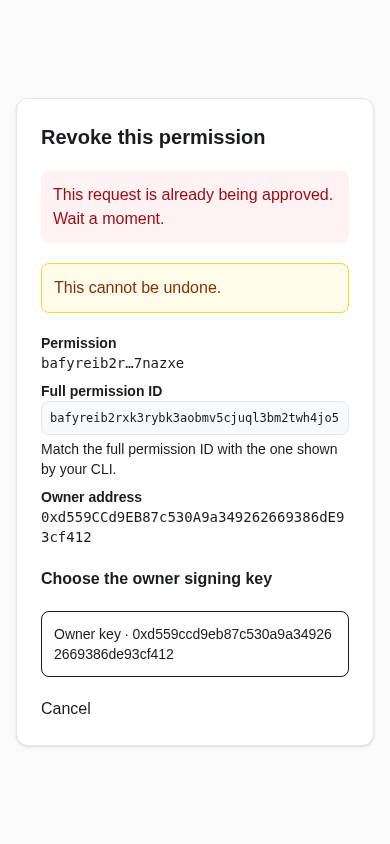
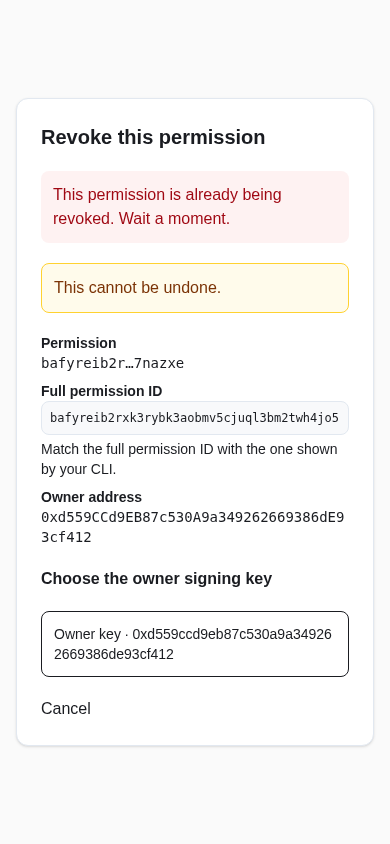
Owner revocation page names its own action on a 409
A 409 on the revoke flow says the permission is already being revoked;
a 410 and both other owner pages keep their wording.

Changed region(s): [[0.1231, 0.2156, 0.8615, 0.2773]]

diff --git a/apps/web/src/lib/api-busy-or-ended.ts b/apps/web/src/lib/api-busy-or-ended.ts
@@ -1,9 +1,10 @@
 // The owner's wording for two server states. A 409 means the request already
-// has an approval in flight, whatever `code` or `error` the reply carries; a
-// 410 on a sign path means it was already answered or ended. Every other
-// status keeps the server's own message: null, and the caller falls back.
-export function apiBusyOrEndedMessage(status: number): string | null {
-  if (status === 409) return 'This request is already being approved. Wait a moment.';
+// has work in flight, whatever `code` or `error` the reply carries; a 410 on a
+// sign path means it was already answered or ended. The owner revocation page
+// names its own action. Every other status keeps the server's own message:
+// null, and the caller falls back.
+export function apiBusyOrEndedMessage(status: number, surface?: 'revoke'): string | null {
+  if (status === 409) return surface === 'revoke' ? 'This permission is already being revoked. Wait a moment.' : 'This request is already being approved. Wait a moment.';
   if (status === 410) return 'This request has already been answered or has ended.';
   return null;
 }

diff --git a/apps/web/src/lib/owner-revocation-mounted.test.ts b/apps/web/src/lib/owner-revocation-mounted.test.ts
@@ -151,7 +151,7 @@ test('owner review exposes the entire copyable permission ID for CLI comparison'
   }
 });
 
-test('owner review shows the busy wording when the request is already being approved', async () => {
+test('owner review shows the revoke wording when the permission is already being revoked', async () => {
   const originalFetch = globalThis.fetch;
   globalThis.fetch = (async (input: RequestInfo | URL) => {
     const path = String(input);
@@ -165,7 +165,7 @@ test('owner review shows the busy wording when the request is already being appr
   const app = mount(Subject, { target, props: { encoded, onClear: () => {} } });
   try {
     await until(() => !!target.querySelector('[role="alert"]'), 'busy wording');
-    expect(target.querySelector('[role="alert"]')?.textContent).toBe('This request is already being approved. Wait a moment.');
+    expect(target.querySelector('[role="alert"]')?.textContent).toBe('This permission is already being revoked. Wait a moment.');
     expect(target.textContent).not.toContain('Handoff is being signed');
   } finally {
     unmount(app);

diff --git a/apps/web/tests/browser/prepared-handoff-busy.spec.ts b/apps/web/tests/browser/prepared-handoff-busy.spec.ts
@@ -115,7 +115,7 @@ test('the owner revocation page shows the busy wording on a 409', async ({ page 
   });
   const request = { kind: 'owner-revocation', ownerDid: `did:pkh:eip155:1:${address}`, cid: 'bafyreib2rxk3rybk3aobmv5cjuql3bm2twh4jo5uxgf5kpqcsgzz7nazxe', nonce: '0123456789abcdef0123456789abcdef', expiresAt: new Date(Date.now() + 590_000).toISOString() };
   await page.goto(`/delegate#tv2=${Buffer.from(JSON.stringify({ transportVersion: 2, request, delivery: { handoffId, state, cancelSecret } })).toString('base64url')}`);
-  await expect(page.getByRole('alert')).toHaveText(BUSY);
+  await expect(page.getByRole('alert')).toHaveText('This permission is already being revoked. Wait a moment.');
   await expect(page.getByText('Handoff is being signed')).toHaveCount(0);
   const shots = process.env.SHOT_DIR;
   if (shots) await page.screenshot({ path: `${shots}/revoke-busy-390.png`, fullPage: false });

diff --git a/apps/web/src/lib/api-busy-or-ended.test.ts b/apps/web/src/lib/api-busy-or-ended.test.ts
@@ -10,8 +10,13 @@ describe('apiBusyOrEndedMessage', () => {
     expect(apiBusyOrEndedMessage(409)).toBe('This request is already being approved. Wait a moment.');
   });
 
-  test('a 410 on a sign path means the request was answered or ended', () => {
+  test('the revocation page names its own action for a 409', () => {
+    expect(apiBusyOrEndedMessage(409, 'revoke')).toBe('This permission is already being revoked. Wait a moment.');
+  });
+
+  test('a 410 says the same on every surface', () => {
     expect(apiBusyOrEndedMessage(410)).toBe('This request has already been answered or has ended.');
+    expect(apiBusyOrEndedMessage(410, 'revoke')).toBe('This request has already been answered or has ended.');
   });
 
   test('every other status keeps the server text', () => {

diff --git a/apps/web/src/routes/delegate/OwnerRevocationHandoff.svelte b/apps/web/src/routes/delegate/OwnerRevocationHandoff.svelte
@@ -99,7 +99,7 @@
     const data: unknown = await response.json().catch(() => null);
     if (!data || typeof data !== 'object' || Array.isArray(data)) throw new Error('OpenKey returned an unreadable response.');
     const result = data as Record<string, unknown>;
-    if (!response.ok) throw new Error(apiBusyOrEndedMessage(response.status) ?? (typeof result.error === 'string' ? result.error : `HTTP ${response.status}`));
+    if (!response.ok) throw new Error(apiBusyOrEndedMessage(response.status, 'revoke') ?? (typeof result.error === 'string' ? result.error : `HTTP ${response.status}`));
     return result;
   }
 

diff --git a/.changeset/owner-busy-or-ended-wording.md b/.changeset/owner-busy-or-ended-wording.md
@@ -2,4 +2,4 @@
 "@openkey/web": patch
 ---
 
-Owner pages show clear wording when a request is already being approved or has ended.
+Owner pages show clear wording when a request is already being approved or has ended; on the owner revocation page a busy request says the permission is already being revoked.
